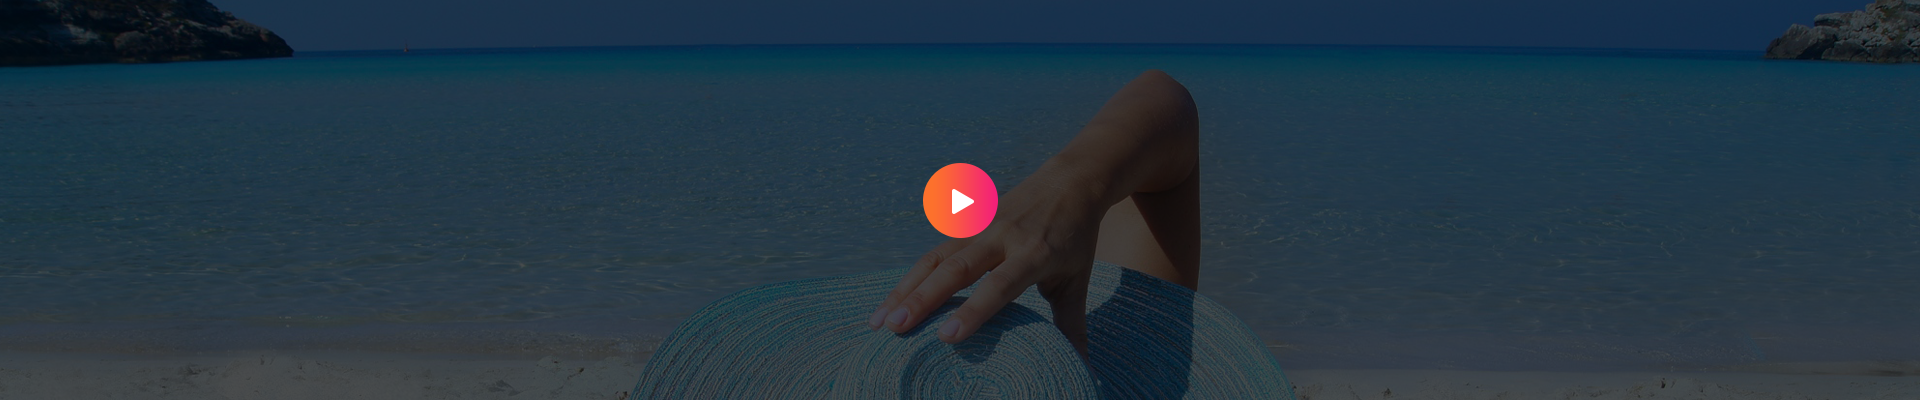
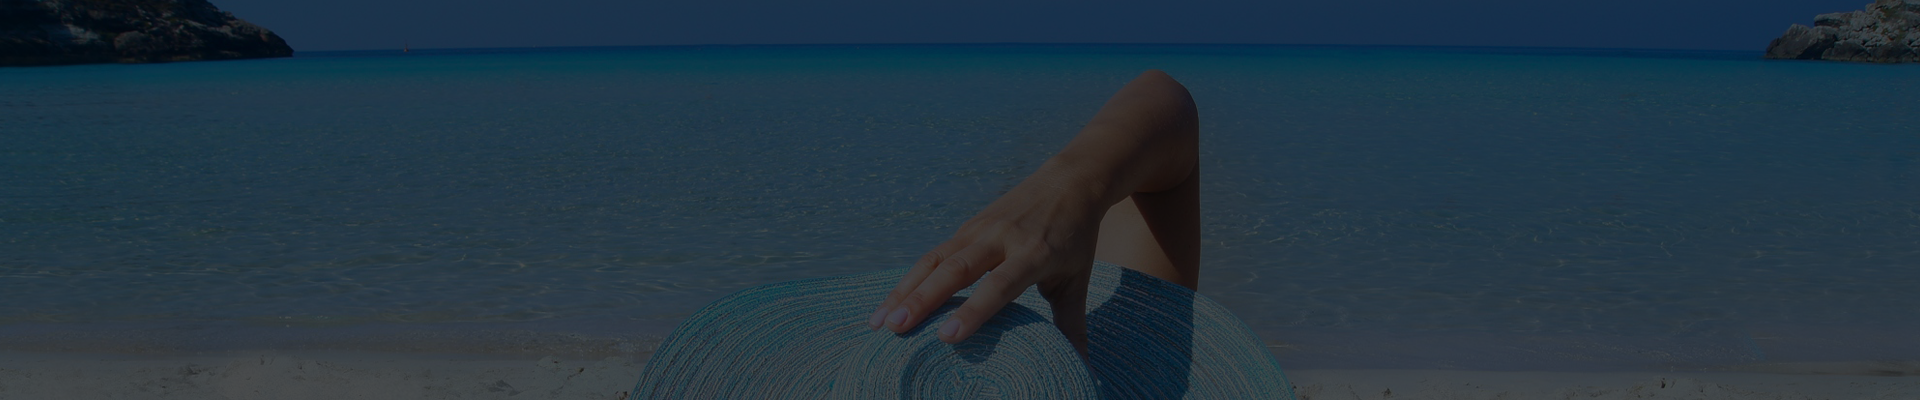
video done

Changed region(s): [[0.4688, 0.42, 0.5312, 0.6]]

diff --git a/src/components/video/video.scss b/src/components/video/video.scss
@@ -1,0 +1,22 @@
+.section-video {
+    &__content {
+        position: relative;
+        .icon-wrapper {
+            background: linear-gradient(90deg, #fd712c, #f01c78);
+            color: white;
+            font-size: 26px;
+            display: flex;
+            align-items: center;
+            justify-content: center;
+            width: 75px;
+            height: 75px;
+            border-radius: 50%;
+            position: absolute;
+            top: 43%;
+            right: 49%;
+            cursor: pointer;
+            .icon {
+            }
+        }
+    }
+}

diff --git a/src/index.js b/src/index.js
@@ -13,6 +13,7 @@ import iPhone from './assets/img/iPhone.png'
     import pf6 from './assets/img/portfolio/shot6.png'
     import pf7 from './assets/img/portfolio/shot7.png'
     // /portfolio
+import Video from './assets/img/Video.png'
 // /img
 
 //css

diff --git a/src/index.scss b/src/index.scss
@@ -30,6 +30,7 @@
 @import './components/features/features.scss';
 @import './components/screenshots/screenshots.scss';
 @import './components/pricing/pricing.scss';
+@import './components/video/video.scss';
 // /imports
 
 // common
